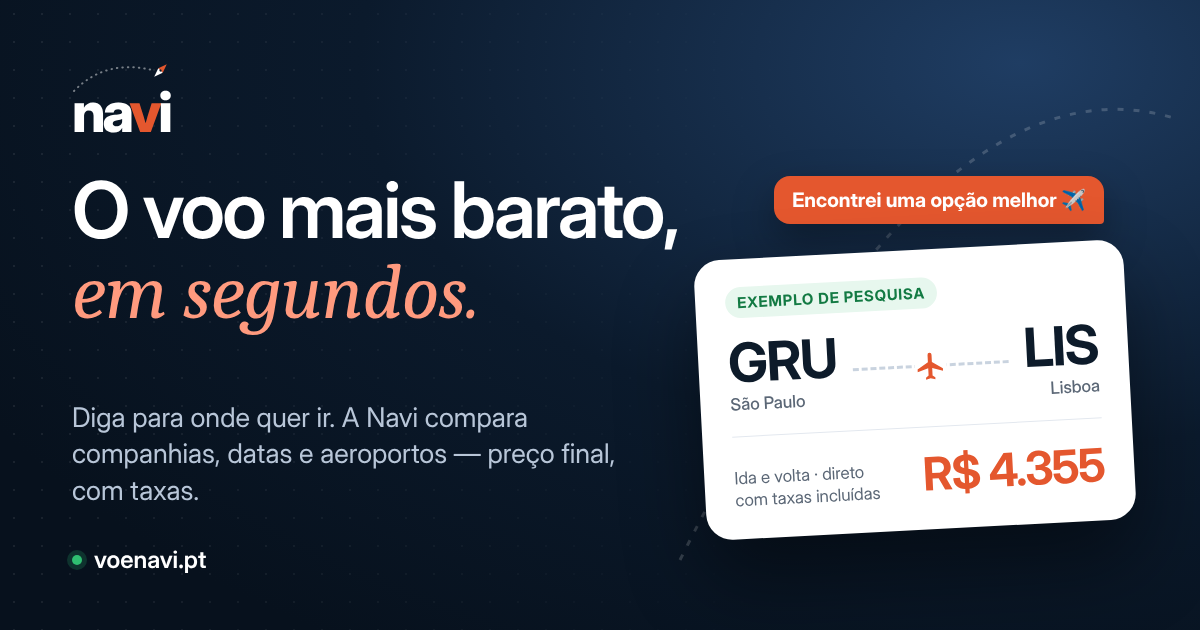
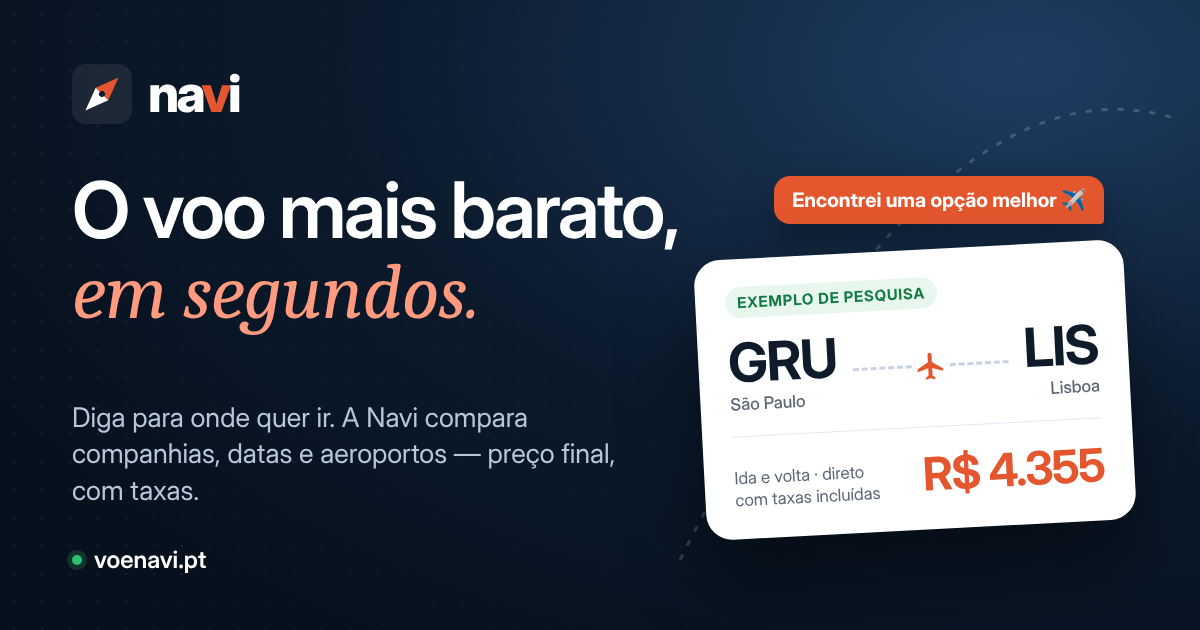
Marca: ícone da agulha ao lado da palavra navi, sem rota tracejada
Claude-Session: https://claude.ai/code/session_01LEAmkC83Mr3ESXrSNEcS5h

Changed region(s): [[0.0617, 0.0905, 0.2158, 0.2111]]

diff --git a/index.html b/index.html
@@ -64,12 +64,12 @@
 .fab-msg[hidden]{display:none}
 @media (prefers-reduced-motion:reduce){.nchat.dock,.fab-msg{animation:none}}
 /* ===== Marca Navi: palavra + agulha ===== */
-.nv-word{position:relative;display:inline-flex;align-items:baseline;font-family:"Sora",var(--f-display);font-weight:700;font-size:34px;letter-spacing:-.06em;line-height:1;color:var(--navy);padding-top:14px;text-decoration:none}
+.nv-word{display:inline-flex;align-items:center;gap:10px;font-family:"Sora",var(--f-display);font-weight:700;font-size:32px;letter-spacing:-.06em;line-height:1;color:var(--navy);text-decoration:none}
 .nv-word:hover{color:var(--navy)}
 .nv-v{color:#e4572e}
-.nv-arc{position:absolute;left:0;top:-6px;width:72px;height:25px;color:var(--navy);overflow:visible}
+.nv-ico{width:38px;height:38px;flex:none}
 .ag-icon svg.nd{width:24px;height:24px;transform:none;color:#fff;fill:initial}
-@media (max-width:560px){.nv-word{font-size:30px;padding-top:13px}.nv-arc{width:64px;height:22px}}
+@media (max-width:560px){.nv-word{font-size:28px;gap:8px}.nv-ico{width:34px;height:34px}}
 </style>
 <!-- Travelpayouts: verificação do site -->
 <script nowprocket data-noptimize="1" data-cfasync="false" data-wpfc-render="false" seraph-accel-crit="1" data-no-defer="1" data-cmp-ab="2">
@@ -799,7 +799,7 @@ body{padding-block:12px 64px}
   </svg>
   <header class="band">
     <div class="topbar">
-      <p class="brand"><a class="nv-word" href="/" aria-label="Navi, página inicial"><svg class="nv-arc" viewBox="0 0 200 70" aria-hidden="true"><path d="M4 66 Q62 4 146 24" fill="none" stroke="currentColor" stroke-opacity=".45" stroke-width="6" stroke-linecap="round" stroke-dasharray="1 12"/><svg x="140" y="-2" width="60" height="60" viewBox="0 0 64 64"><g transform="rotate(45 32 32)"><path d="M32 5L41.5 32L22.5 32Z" fill="#e4572e"/><path d="M22.5 32L41.5 32L32 59Z" fill="currentColor"/></g></svg></svg><span aria-hidden="true">na<span class="nv-v">v</span>i</span></a></p>
+      <p class="brand"><a class="nv-word" href="/" aria-label="Navi, página inicial"><svg class="nv-ico" viewBox="0 0 64 64" aria-hidden="true"><rect width="64" height="64" rx="15" fill="#0b1a2c"/><g transform="rotate(45 32 32)"><path d="M32 7L41.5 32L22.5 32Z" fill="#e4572e"/><path d="M22.5 32L41.5 32L32 57Z" fill="#ffffff"/><circle cx="32" cy="32" r="3.2" fill="#0b1a2c"/></g></svg><span aria-hidden="true">na<span class="nv-v">v</span>i</span></a></p>
     <nav class="tabs" role="tablist" aria-label="Secções">
       <button type="button" role="tab" id="tab-procurar" aria-controls="p-procurar" aria-selected="true">Procurar</button>
       <button type="button" role="tab" id="tab-calendario" aria-controls="p-calendario" aria-selected="false">Calendário do mês</button>

diff --git a/sw.js b/sw.js
@@ -1,5 +1,5 @@
 // Service worker da Navi: guarda a "casca" da app para abrir depressa; os preços vêm sempre da rede.
-const CACHE = "navi-v4";
+const CACHE = "navi-v5";
 const CASCA = ["/", "/index.html", "/manifest.webmanifest", "/airports.json", "/land-110m.json", "/icons/icon-192.png", "/icons/icon-512.png", "/icons/favicon.svg"];
 self.addEventListener("install", e => { e.waitUntil(caches.open(CACHE).then(c => c.addAll(CASCA)).then(() => self.skipWaiting())); });
 self.addEventListener("activate", e => { e.waitUntil(caches.keys().then(ks => Promise.all(ks.filter(k => k !== CACHE).map(k => caches.delete(k)))).then(() => self.clients.claim())); });
